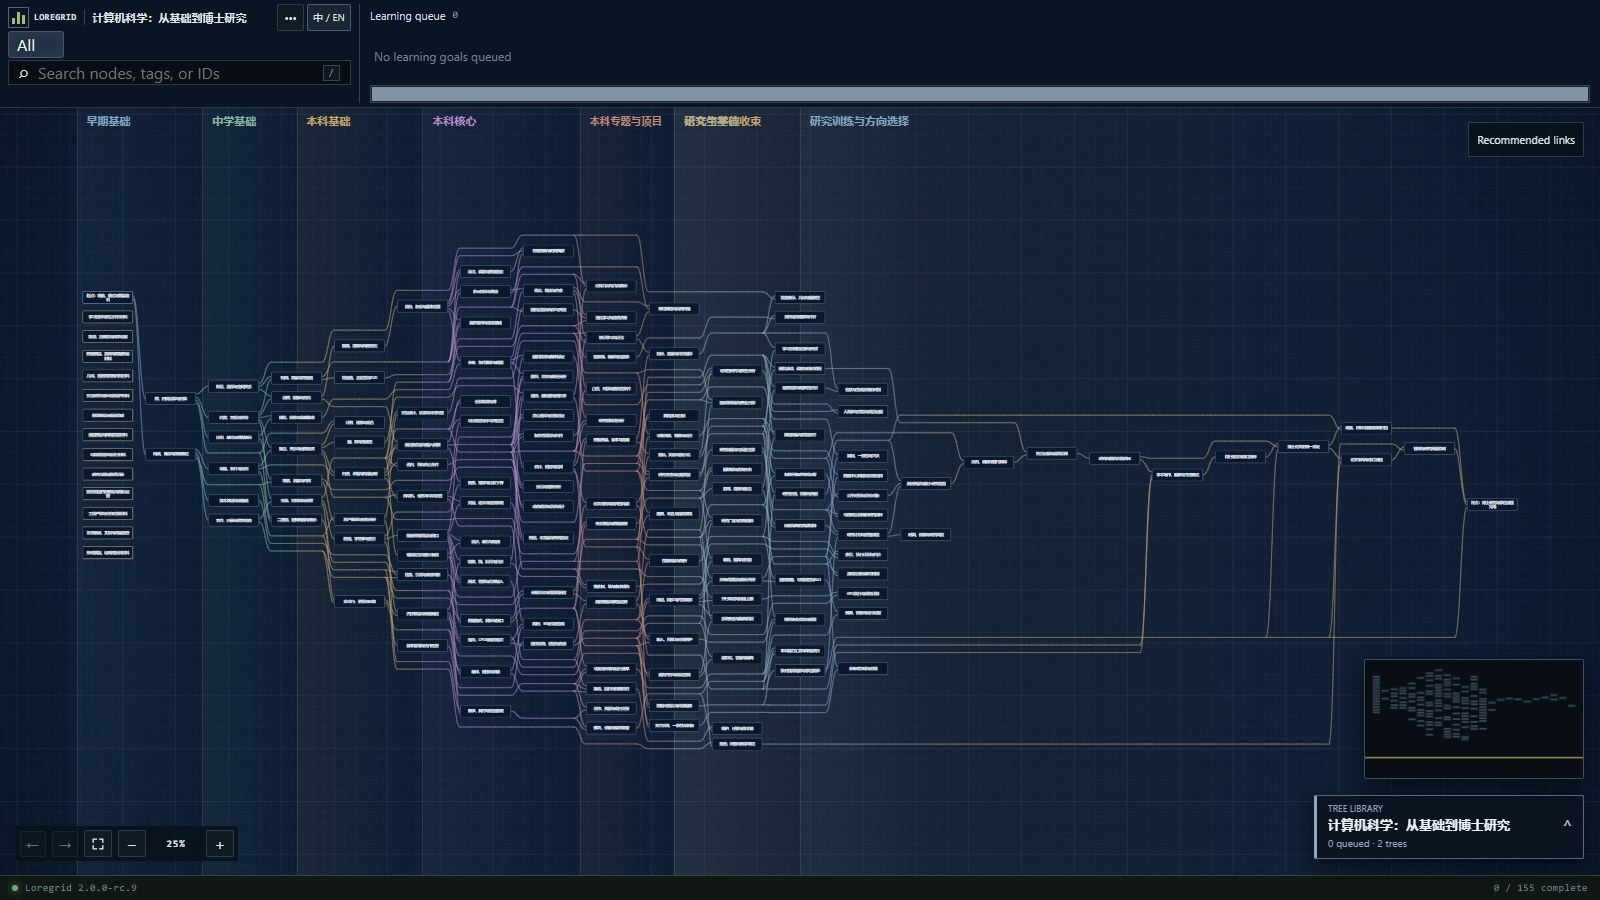
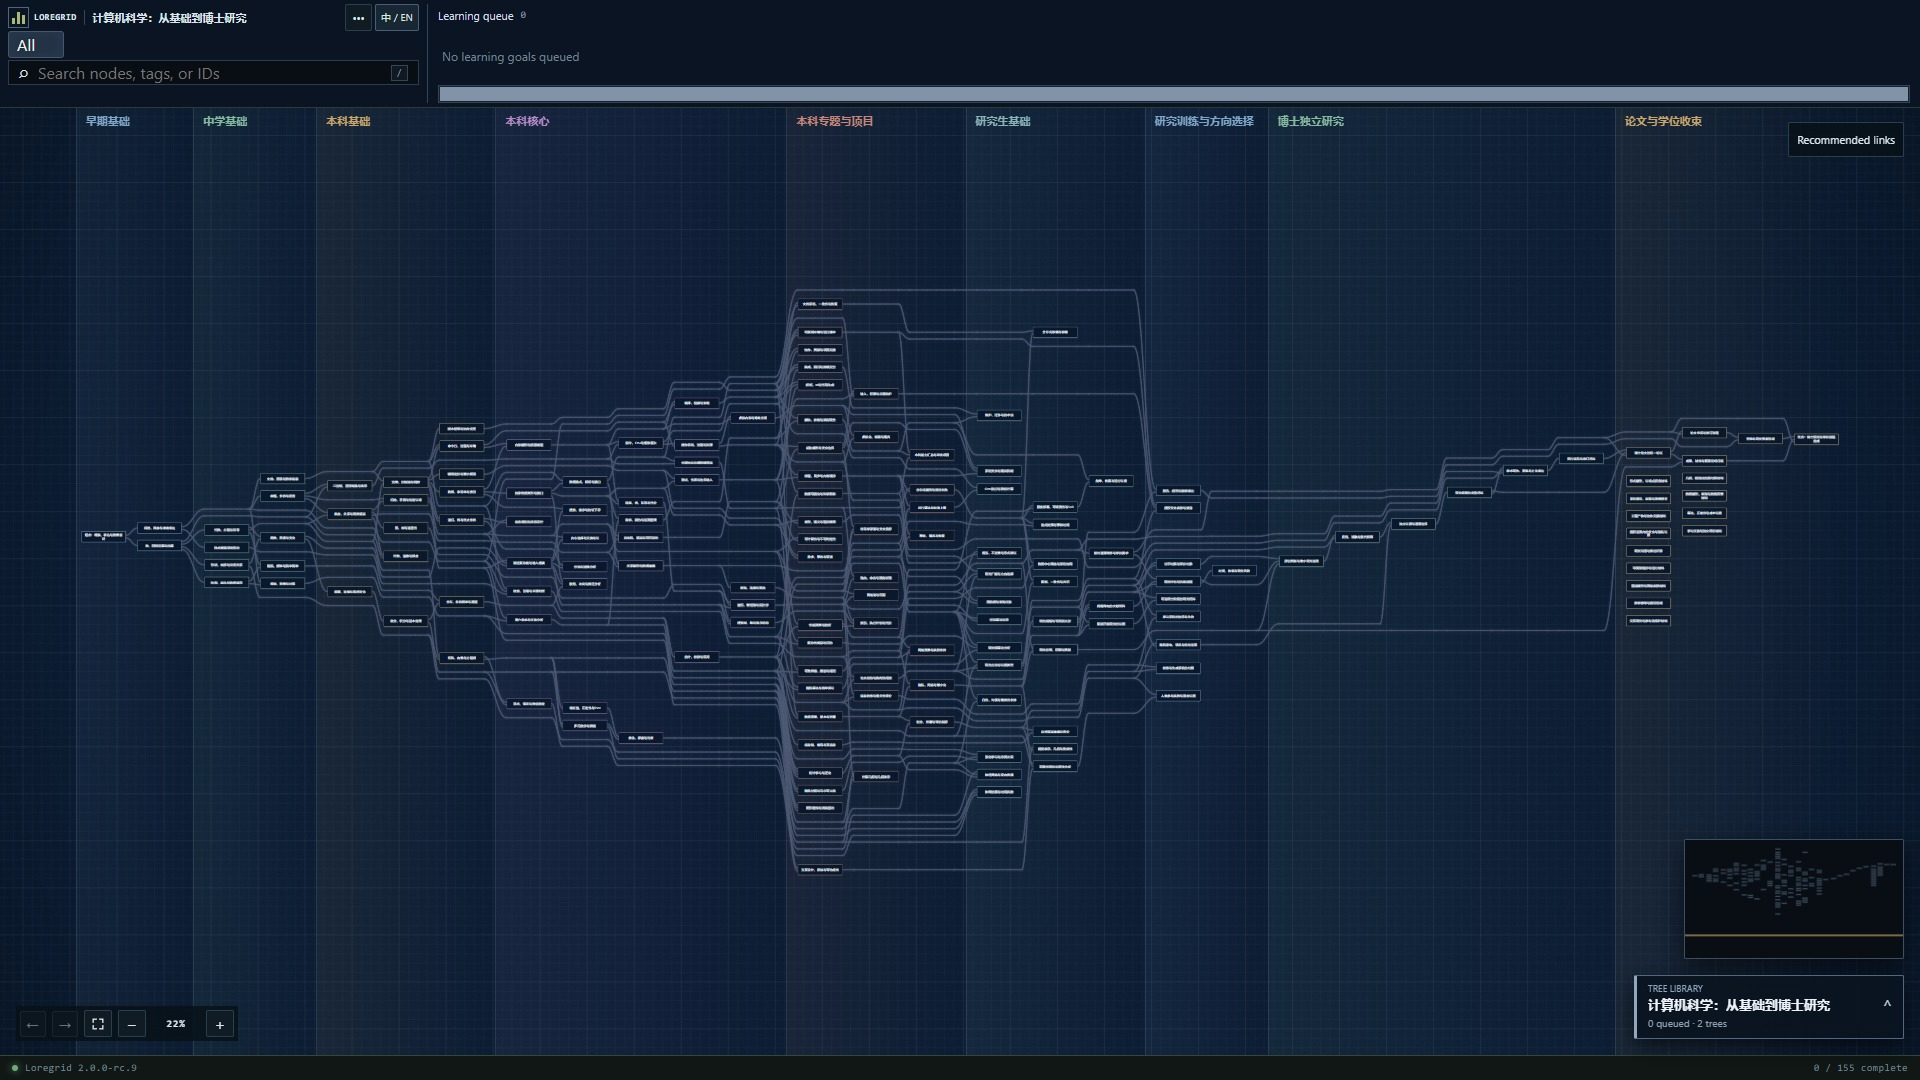
docs: clarify tree loading and refresh previews

diff --git a/README.md b/README.md
@@ -6,7 +6,7 @@
 
 ![The 155-node All overview of Loregrid's computer science sample tree](docs/assets/loregrid-preview-en.jpg)
 
-*A full-tree view of the 155-node example. Fit the map to see its shape, then zoom in to read individual topics.*
+*The 155-node example in All view. Each column is a learning stage; zoom in to inspect individual topics and prerequisites.*
 
 Loregrid is an offline-first, open-source viewer for paged learning trees. Each tree has focused pages and one **All** view. Required prerequisites connect topics, including across pages, without forcing a subject into one linear course.
 
@@ -19,8 +19,10 @@ For ordinary use, choose **Code → Download ZIP** on GitHub, extract it, and op
 application: it opens directly in a current Chromium or Firefox browser and does not
 require Node.js, pnpm, Vite, a server, or an account.
 
-The app starts with a fictional example. Connect a local `data/` folder or import tree
-JSON files from the Tree library menu. See the [Chinese user guide](docs/README.zh-CN.md)
+The app starts with one fictional example bundled into the HTML. Opening the file directly
+does not scan nearby folders. To add trees, either import JSON files from the Tree library
+menu, or choose the repository's `data/` folder in a browser that supports folder access
+and grant access so Loregrid can read `data/trees/`. See the [Chinese user guide](docs/README.zh-CN.md)
 or the [English documentation index](docs/README.md).
 
 ## Build and develop
@@ -44,10 +46,12 @@ handoff file. The development HTML template lives in `src/index.html`.
 
 ## Explore a tree
 
-1. In Chromium, choose the `data/` folder from the menu. If browser permission remains
-   available, Loregrid reads `data/trees/` at startup; use **Reconnect data folder** if
-   permission expires and **Reload data folder** after editing a tree while the app is open.
-2. On browsers without folder access, import one or more V1 or V2 JSON files manually.
+1. In Chromium, open the Tree library and choose **Choose data folder**, then select `data/`
+   (not `data/trees/`) and grant access. After access is granted, Loregrid reads `data/trees/`
+   at startup while permission remains available. Use **Reconnect data folder** if permission
+   expires and **Reload data folder** after editing a tree while the app is open.
+2. To use a tree without connecting a folder, import one or more V1 or V2 JSON files manually.
+   This also works in browsers without folder access, including Firefox.
 3. Choose a page, or select **All** to see the whole active tree.
 4. Select topics to inspect prerequisites, add learning goals to the queue, and record progress.
 

diff --git a/docs/data-folder.md b/docs/data-folder.md
@@ -22,13 +22,19 @@ in `progress/`; they are never written into a tree definition. Loregrid also kee
 active browser copy. Each saved progress change receives an update timestamp so the
 newer browser or folder copy can be restored after access is interrupted.
 
-The built-in folder picker is available in Chromium-based browsers on secure origins
-(such as localhost or HTTPS). Firefox and other browsers without this API should use
-**Import tree JSON** and the progress backup/restore controls. Manual import does not
-watch the source file; import it again after its contents change. The app does not
-silently scan the computer.
+The folder picker requires browser support and a secure context. The local Chrome build
+was checked with the standalone HTML opened directly from disk (`file://`): the folder
+picker API is available there too. Opening the HTML alone does not grant access to adjacent
+folders: open **Tree library → Choose data folder**, select `data/` (not `trees/`), and
+grant access first. Permission may need to be renewed later.
 
-The two fictional sample trees are tracked by Git. Other JSON files in `data/trees/` and
+Firefox and other browsers without this API should use **Import tree JSON** and the
+progress backup/restore controls. Manual import does not watch the source file; import
+it again after its contents change. The app does not silently scan the computer.
+
+The two example trees are tracked by Git. Only `loregrid-demo.json` is bundled into the
+ready HTML; `computer-science-phd.json` becomes available after connecting the folder or
+importing that file. Other JSON files in `data/trees/` and
 all progress JSON files are ignored by Git so personal data is not accidentally
 published. This keeps one place to find tree JSON; the `data/progress/` folder is only
 for progress created by the app.

diff --git a/docs/release-notes.md b/docs/release-notes.md
@@ -11,6 +11,6 @@ Current capabilities include:
 - Import of Loregrid V2 and legacy Learning Tech Tree V1 data.
 - A single-file offline build.
 
-The repository does not currently provide a hosted demo or GitHub Release. The tracked
+The repository does not currently provide a hosted demo or GitHub Release.
 The root `index.html` is a ready-to-open offline application; see the [README](../README.md)
 for ordinary-user and developer workflows.
